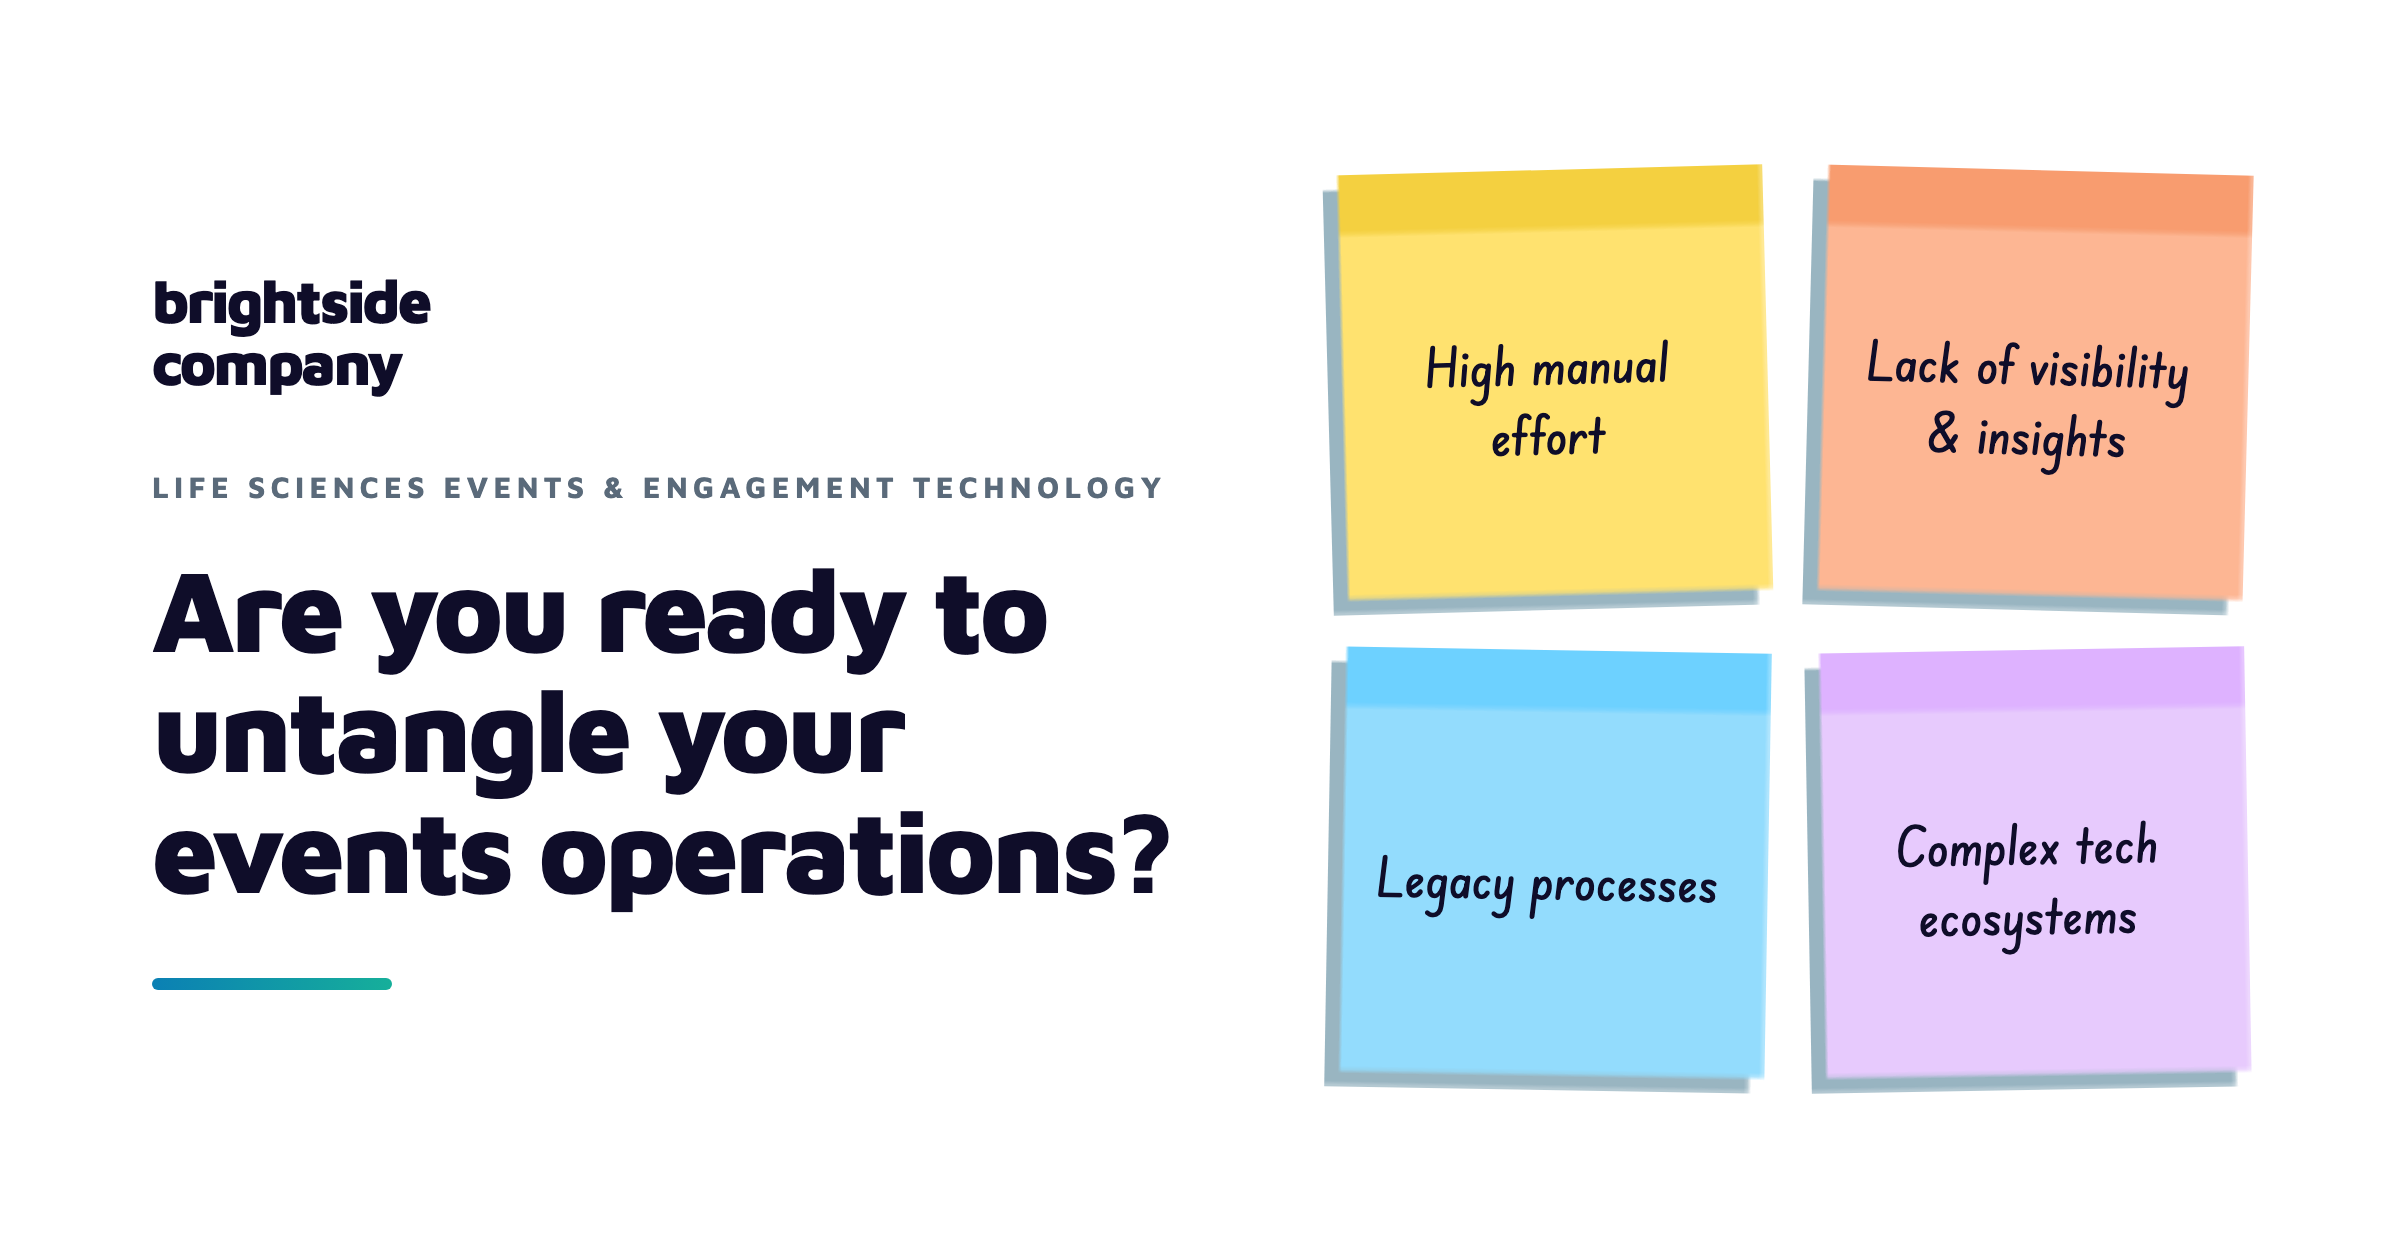
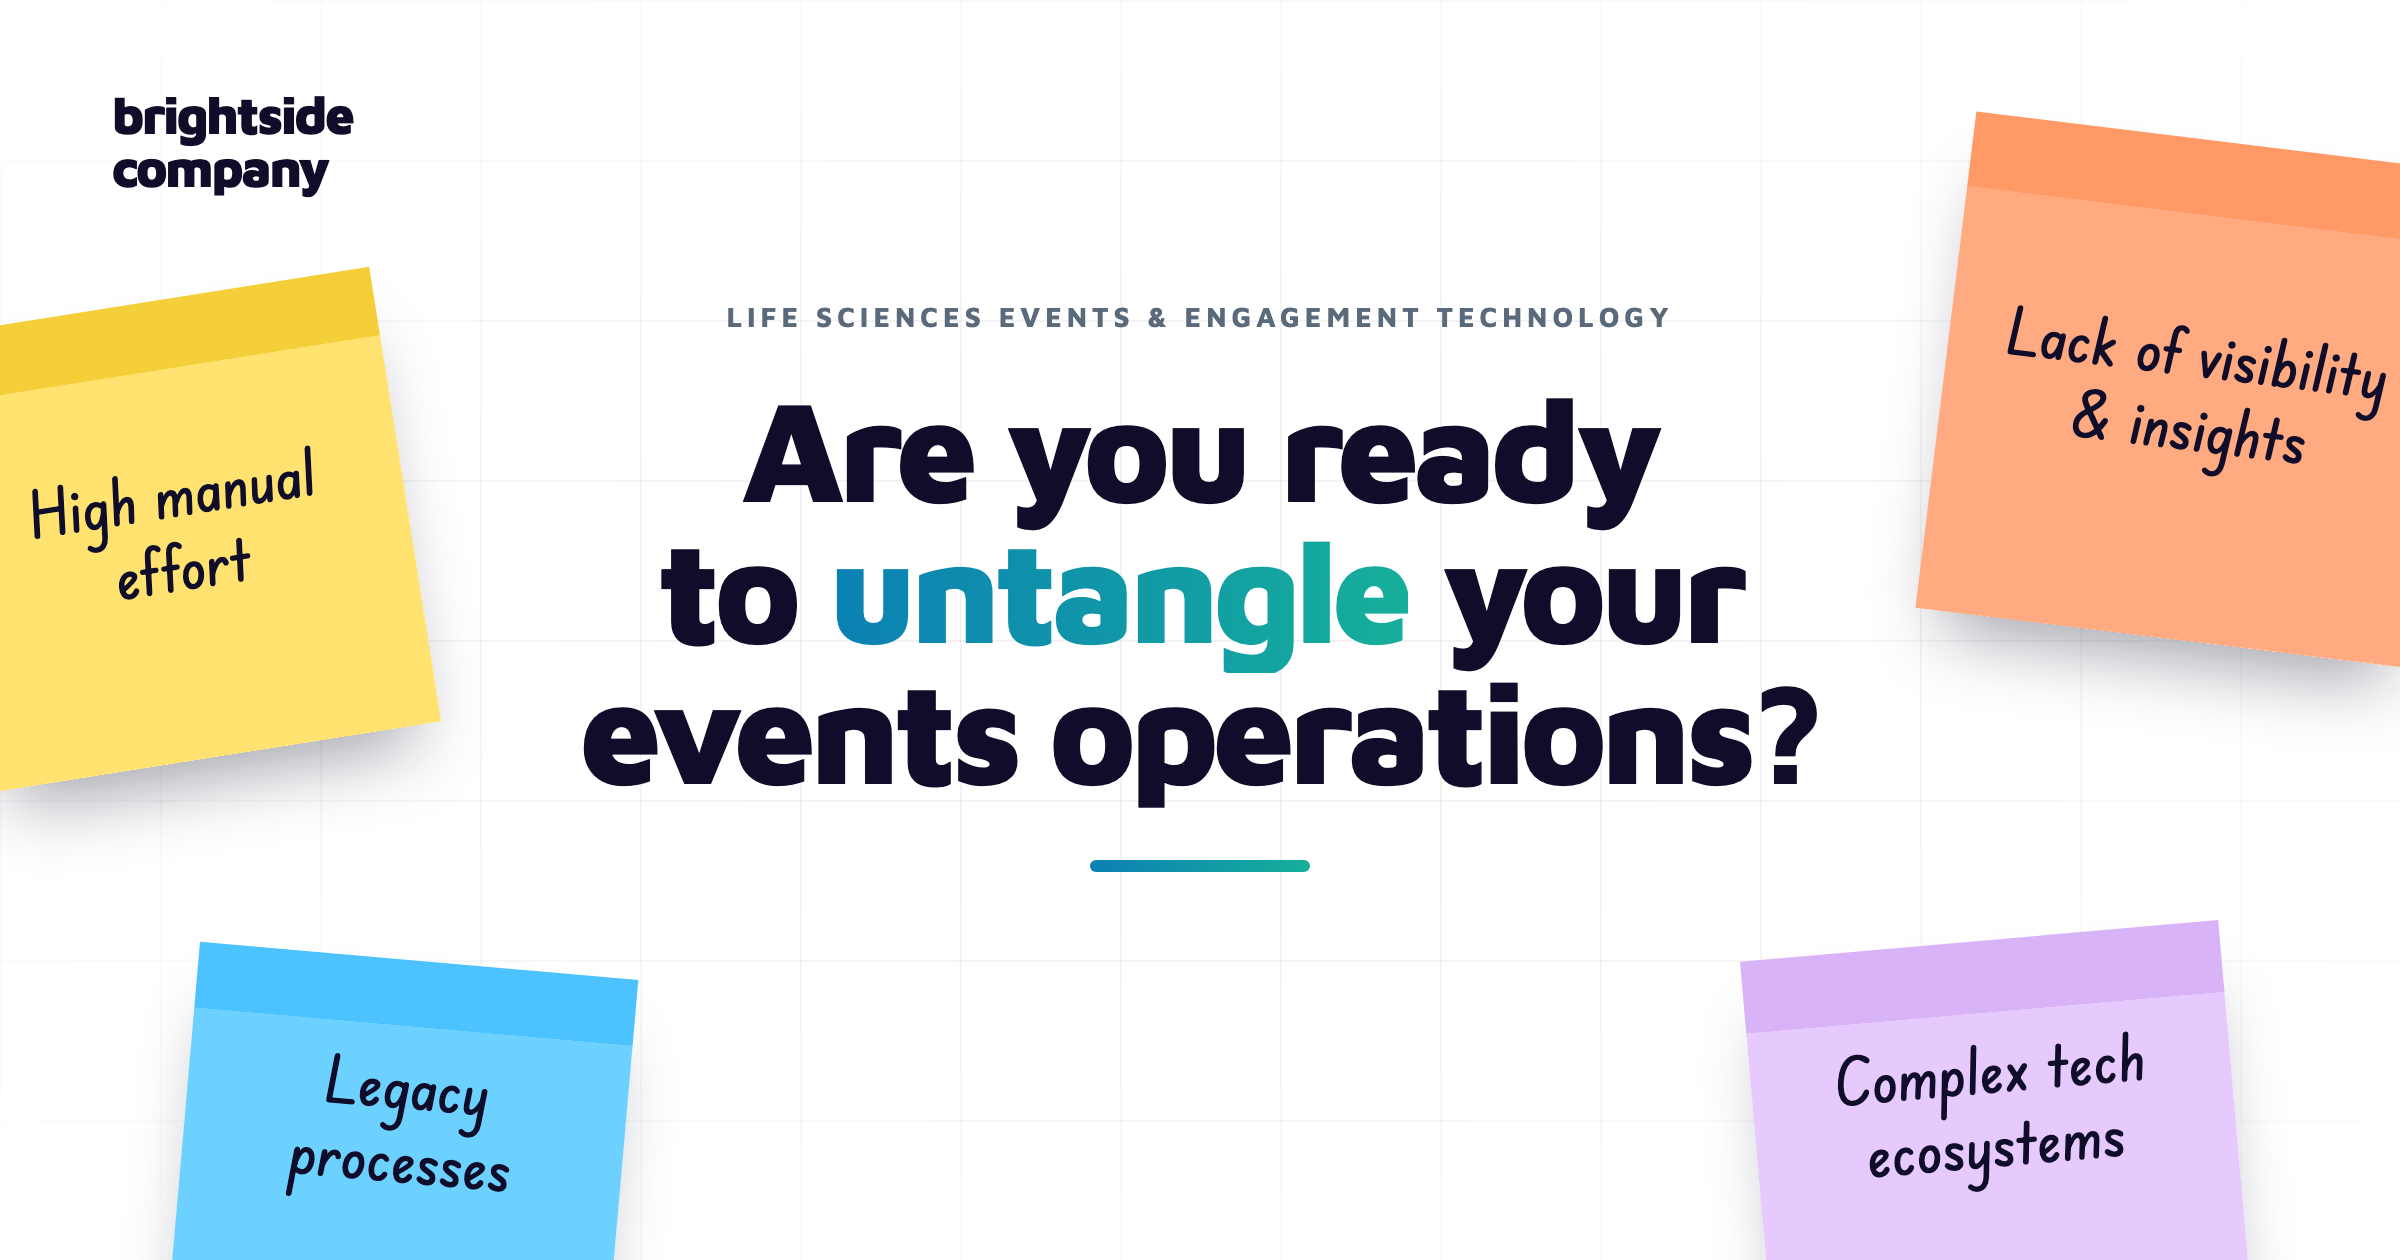
Rebuild the hero as the notes wall (desktop) and scattered cluster (mobile)
Implements the hero refresh handoff: 1c on desktop, 2a at 960px and below.

- Centred headline with "untangle" in the teal gradient, faint masked grid.
- Post-its are pure CSS now (crisp at 260px+), four large notes pinned
  around the edges that slowly bob; labels stay real text in a list.
- 961-1200px: notes shrink 20% and bleed further so they clear the headline.
  Wide screens: notes anchor to a 1440px stage instead of the window edges.
- Mobile: cluster sized with container units off the 390px reference, so it
  holds from 320px to tablets; stacked full-width CTAs; eyebrow shortens.
- One hero paragraph everywhere. Bob disabled under reduced motion.
- Drop the post-it PNGs and two long-unused hero images.
- New social-preview.png showing the refreshed hero.

diff --git a/public/index.html b/public/index.html
@@ -81,32 +81,51 @@
     .btn { display: inline-flex; align-items: center; gap: 10px; padding: 15px 30px; border-radius: 6px; font-family: var(--font); font-size: 15px; font-weight: 700; text-decoration: none; cursor: pointer; border: none; transition: background 0.2s, transform 0.2s; }
     .btn-teal { background: linear-gradient(90deg, #0B80B4, #16AF9A); color: var(--white); box-shadow: 0 4px 16px rgba(11,128,180,0.3); }
     .btn-teal:hover { opacity: 0.88; transform: translateY(-2px); box-shadow: 0 8px 24px rgba(11,128,180,0.35); }
-    .btn-outline { background: transparent; color: var(--ink); box-shadow: inset 0 0 0 2px var(--ink); }
+    .btn-outline { background: var(--white); color: var(--ink); box-shadow: inset 0 0 0 2px var(--ink); }
     .btn-outline:hover { background: var(--ink); color: var(--white); transform: translateY(-2px); }
     .btn-white { background: var(--white); color: var(--ink); padding: 15px 32px; border-radius: 6px; font-family: var(--font); font-size: 15px; font-weight: 700; text-decoration: none; display: inline-flex; align-items: center; gap: 10px; transition: background 0.2s, transform 0.2s; box-shadow: 0 2px 12px rgba(0,0,0,0.1); }
     .btn-white:hover { background: #f0f0f0; transform: translateY(-2px); }
 
-    /* POST-IT */
-    .postit-wrap { position: relative; display: inline-block; }
-    .postit-wrap img { display: block; width: 100%; height: 100%; }
-    .postit-label { position: absolute; inset: 18% 10% 10% 10%; display: flex; align-items: center; justify-content: center; font-family: var(--postit-font); font-size: 15px; font-weight: 500; color: var(--ink); text-align: center; line-height: 1.3; pointer-events: none; }
+    /* HERO: notes wall (desktop) / scattered cluster (mobile) */
+    #hero { position: relative; overflow: hidden; background: var(--white); }
+    #hero::before {
+      content: ''; position: absolute; inset: 0; pointer-events: none;
+      background-image: linear-gradient(rgba(15,13,41,0.05) 1px, transparent 1px),
+                        linear-gradient(90deg, rgba(15,13,41,0.05) 1px, transparent 1px);
+      background-size: 88px 88px;
+      mask-image: radial-gradient(ellipse 70% 70% at 50% 50%, #000 30%, transparent 100%);
+      -webkit-mask-image: radial-gradient(ellipse 70% 70% at 50% 50%, #000 30%, transparent 100%);
+    }
+    .hero-stage { position: relative; max-width: 1440px; min-height: 100vh; margin: 0 auto; padding: 68px 48px 0; display: flex; align-items: center; justify-content: center; }
+    .hero-text { width: 100%; max-width: 760px; padding: 56px 0 88px; text-align: center; }
+    .hero-head, .hero-copy { position: relative; z-index: 2; }
+    .hero-eyebrow { display: block; font-size: 11px; font-weight: 700; letter-spacing: 0.18em; text-transform: uppercase; color: var(--text-light); margin-bottom: 26px; }
+    .hero-h1 { font-size: clamp(48px, 5.9vw, 76px); font-weight: 900; letter-spacing: -0.04em; line-height: 0.98; color: var(--ink); margin-bottom: 28px; text-wrap: balance; }
+    .hero-accent { background: linear-gradient(90deg, #0B80B4, #16AF9A); -webkit-background-clip: text; background-clip: text; color: transparent; }
+    .hero-body { font-size: 18px; line-height: 1.7; color: var(--text-mid); max-width: 600px; margin: 0 auto 36px; }
+    .hero-actions { display: flex; gap: 14px; flex-wrap: wrap; align-items: center; justify-content: center; }
 
-    #hero { padding-top: 68px; min-height: 100vh; display: flex; align-items: center; background: var(--white); position: relative; overflow: hidden; }
-    .hero-inner { display: grid; grid-template-columns: 55fr 45fr; grid-template-areas: "head notes" "copy notes"; gap: 0 64px; align-items: center; width: 100%; padding: 60px 0; }
-    .hero-head { grid-area: head; }
-    .hero-copy { grid-area: copy; }
-    .hero-notes { grid-area: notes; align-self: center; }
-    .hero-eyebrow { font-size: 11px; font-weight: 700; letter-spacing: 0.18em; text-transform: uppercase; color: var(--text-light); margin-bottom: 20px; display: block; }
-    .hero-h1 { font-size: clamp(36px, 4vw, 58px); font-weight: 900; letter-spacing: -0.03em; line-height: 1.05; color: var(--ink); margin-bottom: 32px; }
-    .hero-body { font-size: 17px; line-height: 1.75; color: var(--text-mid); max-width: 520px; margin-bottom: 40px; }
-    .hero-actions { display: flex; gap: 14px; flex-wrap: wrap; align-items: center; }
-    .hero-postits { display: grid; grid-template-columns: repeat(2, minmax(0, 1fr)); gap: 24px; justify-items: center; }
-    .hero-postit { width: 100%; max-width: 200px; aspect-ratio: 1; }
-    .hero-postit:nth-child(1) { transform: rotate(-1.5deg); }
-    .hero-postit:nth-child(2) { transform: rotate(1.5deg); }
-    .hero-postit:nth-child(3) { transform: rotate(1deg); }
-    .hero-postit:nth-child(4) { transform: rotate(-1deg); }
-    .hero-postit .postit-label { font-size: 30px; inset: 12% 7% 7% 7%; }
+    /* Post-its: pure CSS, darker band across the top 15% */
+    .hero-notes { position: absolute; inset: 0; z-index: 1; list-style: none; pointer-events: none; }
+    .hero-note {
+      --k: 1;
+      position: absolute; box-sizing: border-box;
+      width: calc(var(--size) * var(--k)); height: calc(var(--size) * var(--k));
+      padding: calc(30px * var(--k));
+      background: linear-gradient(var(--band) 0 15%, var(--paper) 15%);
+      box-shadow: 0 22px 36px -14px rgba(15,13,41,0.4);
+      display: flex; align-items: center; justify-content: center; text-align: center;
+      font-family: var(--postit-font); font-weight: 500; font-size: calc(36px * var(--k)); line-height: 1.15; color: var(--ink);
+      transform: rotate(var(--r));
+      animation: bob 5s ease-in-out infinite;
+    }
+    @keyframes bob { 0%, 100% { transform: translateY(0) rotate(var(--r)); } 50% { transform: translateY(-6px) rotate(var(--r)); } }
+    .note-yellow { --band: #F5CF3A; --paper: #FFE26F; --size: 260px; --r: -9deg; left: -30px; top: 150px; }
+    .note-orange { --band: #FF9A66; --paper: #FFAA80; --size: 280px; --r: 7deg;  right: -20px; top: 110px; animation-delay: -1.5s; }
+    .note-blue   { --band: #4CC3FF; --paper: #6DD1FF; --size: 240px; --r: 5deg;  left: 60px; bottom: -60px; animation-delay: -3s;
+                   align-items: flex-start; padding-top: calc(50px * var(--k)); }
+    .note-purple { --band: #D9B3F7; --paper: #E7CAFD; --size: 270px; --r: -5deg; right: 70px; bottom: -70px; animation-delay: -4.5s;
+                   align-items: flex-start; padding-top: calc(52px * var(--k)); }
 
     /* ABOUT */
     #about { padding: var(--pad) 0; background: var(--bg); }
@@ -235,15 +254,40 @@
       html { scroll-behavior: auto; }
       *, *::before, *::after { animation-duration: 0.001ms !important; animation-iteration-count: 1 !important; transition-duration: 0.001ms !important; transition-delay: 0s !important; }
       .js-loaded .fade-up { opacity: 1; transform: none; }
+      .hero-note { animation: none; }
     }
 
     /* RESPONSIVE */
+    @media (max-width: 1200px) and (min-width: 961px) {
+      .hero-note { --k: 0.8; }
+      .hero-text { max-width: 640px; }
+      .note-yellow { left: -50px; }
+      .note-orange { right: -45px; }
+    }
     @media (max-width: 960px) {
       :root { --pad: 72px; }
-      .hero-inner { grid-template-columns: 1fr; grid-template-areas: "head" "notes" "copy"; gap: 0; }
-      .hero-postits { grid-template-columns: repeat(4, minmax(0, 1fr)); gap: 10px; margin: 32px 0 36px; }
-      .hero-postit { max-width: none; }
-      .hero-postit .postit-label { font-size: clamp(10px, 3.3vw, 19px); inset: 10% 6% 6% 6%; line-height: 1.25; }
+      /* Hero, mobile: eyebrow > headline > note cluster > copy > stacked CTAs */
+      #hero::before { background-size: 64px 64px;
+        mask-image: radial-gradient(ellipse 90% 60% at 50% 45%, #000 30%, transparent 100%);
+        -webkit-mask-image: radial-gradient(ellipse 90% 60% at 50% 45%, #000 30%, transparent 100%); }
+      .hero-stage { min-height: 0; padding: 68px 0 56px; display: block; }
+      .hero-text { max-width: none; padding: 0; }
+      .hero-head, .hero-copy { max-width: 640px; margin: 0 auto; padding: 0 20px; }
+      .hero-eyebrow { font-size: 10px; margin: 26px 0 14px; }
+      .eyebrow-tail { display: none; }
+      .hero-h1 { font-size: clamp(40px, 6.6vw, 54px); margin-bottom: 0; }
+      .hero-body { font-size: 15px; line-height: 1.65; margin: 14px auto 20px; }
+      .hero-actions { flex-direction: column; gap: 10px; max-width: 420px; margin: 0 auto; }
+      .hero-actions .btn { width: 100%; justify-content: center; padding: 14px; }
+
+      /* Cluster scales with its own width (390px reference) via container units */
+      .hero-notes { position: relative; inset: auto; width: 100%; max-width: 420px; aspect-ratio: 390 / 214; margin: 6px auto 0; container-type: inline-size; }
+      .hero-note { width: var(--m-size); height: var(--m-size); padding: 3.08cqw; font-size: 4.62cqw;
+                   box-shadow: 0 12px 20px -10px rgba(15,13,41,0.35); align-items: center; right: auto; bottom: auto; }
+      .note-yellow { --m-size: 29.74cqw; --r: -7deg; left: 4.1%;  top: 6.67cqw;  animation-delay: 0s; }
+      .note-orange { --m-size: 31.79cqw; --r: 5deg;  left: 30.3%; top: 20cqw;    animation-delay: -1.3s; }
+      .note-blue   { --m-size: 28.72cqw; --r: 4deg;  left: 60%;   top: 3.08cqw;  animation-delay: -2.6s; padding-top: 3.08cqw; }
+      .note-purple { --m-size: 30.26cqw; --r: -5deg; left: 67.2%; top: 28.72cqw; animation-delay: -3.9s; padding-top: 3.08cqw; }
       .about-grid, .advisors-inner { grid-template-columns: 1fr; gap: 48px; }
       .nav-links li:not(:last-child) { display: none; }
       .offer { padding: 40px 32px 32px; }
@@ -254,7 +298,6 @@
     @media (max-width: 600px) {
       .container, .nav-inner { padding-left: 20px; padding-right: 20px; }
       .footer-inner { flex-direction: column; align-items: flex-start; gap: 14px; }
-      .hero-postits { gap: 8px; }
       .team-head { flex-wrap: wrap; }
       .team-link { margin-left: 0; width: 100%; }
       .offer { padding: 32px 20px 24px; border-radius: 14px; margin-top: 56px; }
@@ -280,38 +323,24 @@
 
   <!-- 1. HERO -->
   <section id="hero">
-    <div class="container">
-      <div class="hero-inner">
+    <div class="hero-stage">
+      <div class="hero-text">
         <div class="hero-head fade-up">
-          <span class="hero-eyebrow">Life Sciences Events &amp; Engagement Technology</span>
-          <h1 class="hero-h1">Are you ready to untangle your events operations?</h1>
+          <span class="hero-eyebrow">Life Sciences Events &amp; Engagement Tech<span class="eyebrow-tail">nology</span></span>
+          <h1 class="hero-h1">Are you ready to <span class="hero-accent">untangle</span> your events operations?</h1>
         </div>
-        <div class="hero-copy fade-up" style="transition-delay:0.1s">
+        <!-- The four problems we untangle: pinned around the edges on desktop, a cluster on mobile -->
+        <ul class="hero-notes fade-up" style="transition-delay:0.15s" aria-label="Common problems">
+          <li class="hero-note note-yellow">High manual effort</li>
+          <li class="hero-note note-orange">Lack of visibility &amp; insights</li>
+          <li class="hero-note note-blue">Legacy processes</li>
+          <li class="hero-note note-purple">Complex tech ecosystems</li>
+        </ul>
+        <div class="hero-copy fade-up">
           <p class="hero-body">If your life sciences events are running on a mix of manual workarounds, regional systems, and inherited processes — you're not alone. We help global pharmaceutical organisations cut through the complexity and design something that actually works.</p>
           <div class="hero-actions">
-            <a href="mailto:jenna@brightside-company.com" class="btn btn-teal">
-              Get in Touch
-            </a>
+            <a href="mailto:jenna@brightside-company.com" class="btn btn-teal">Get in Touch</a>
             <a href="#services" class="btn btn-outline">Our Services</a>
-          </div>
-        </div>
-        <!-- Post-its: the four things we untangle -->
-        <div class="hero-notes hero-postits fade-up" style="transition-delay:0.15s">
-          <div class="hero-postit postit-wrap">
-            <img src="postitYellow.png" alt="" />
-            <span class="postit-label">High manual effort</span>
-          </div>
-          <div class="hero-postit postit-wrap">
-            <img src="postitOrange.png" alt="" />
-            <span class="postit-label">Lack of visibility &amp; insights</span>
-          </div>
-          <div class="hero-postit postit-wrap">
-            <img src="postitBlue.png" alt="" />
-            <span class="postit-label">Legacy processes</span>
-          </div>
-          <div class="hero-postit postit-wrap">
-            <img src="postitPurple.png" alt="" />
-            <span class="postit-label">Complex tech ecosystems</span>
           </div>
         </div>
       </div>
